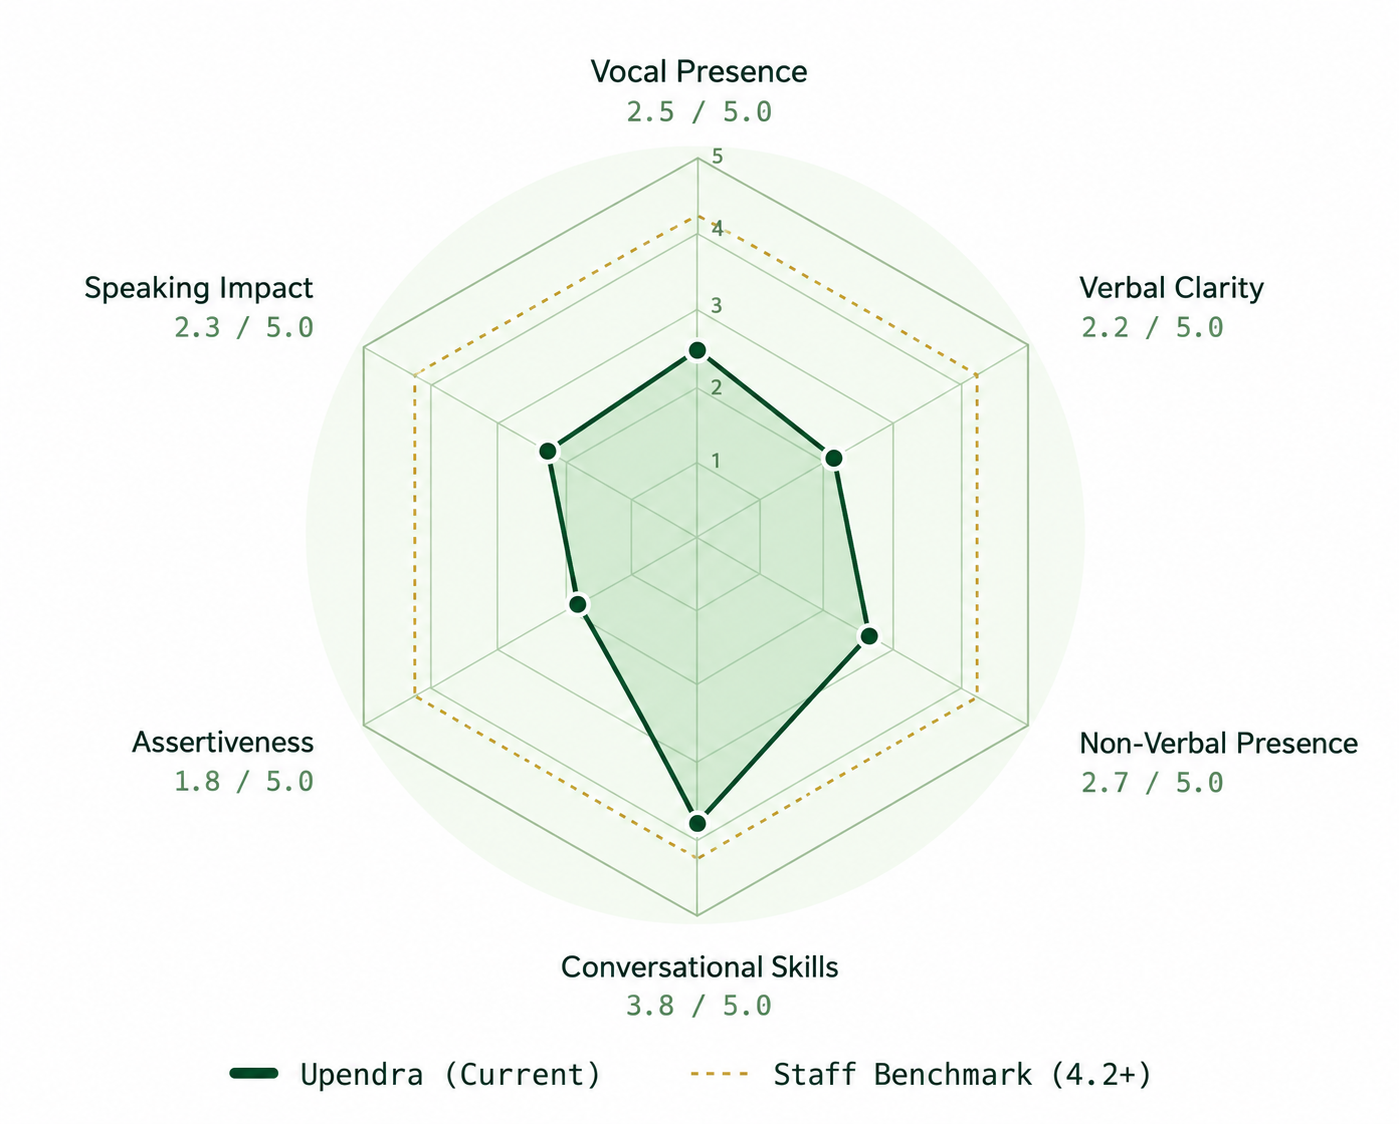
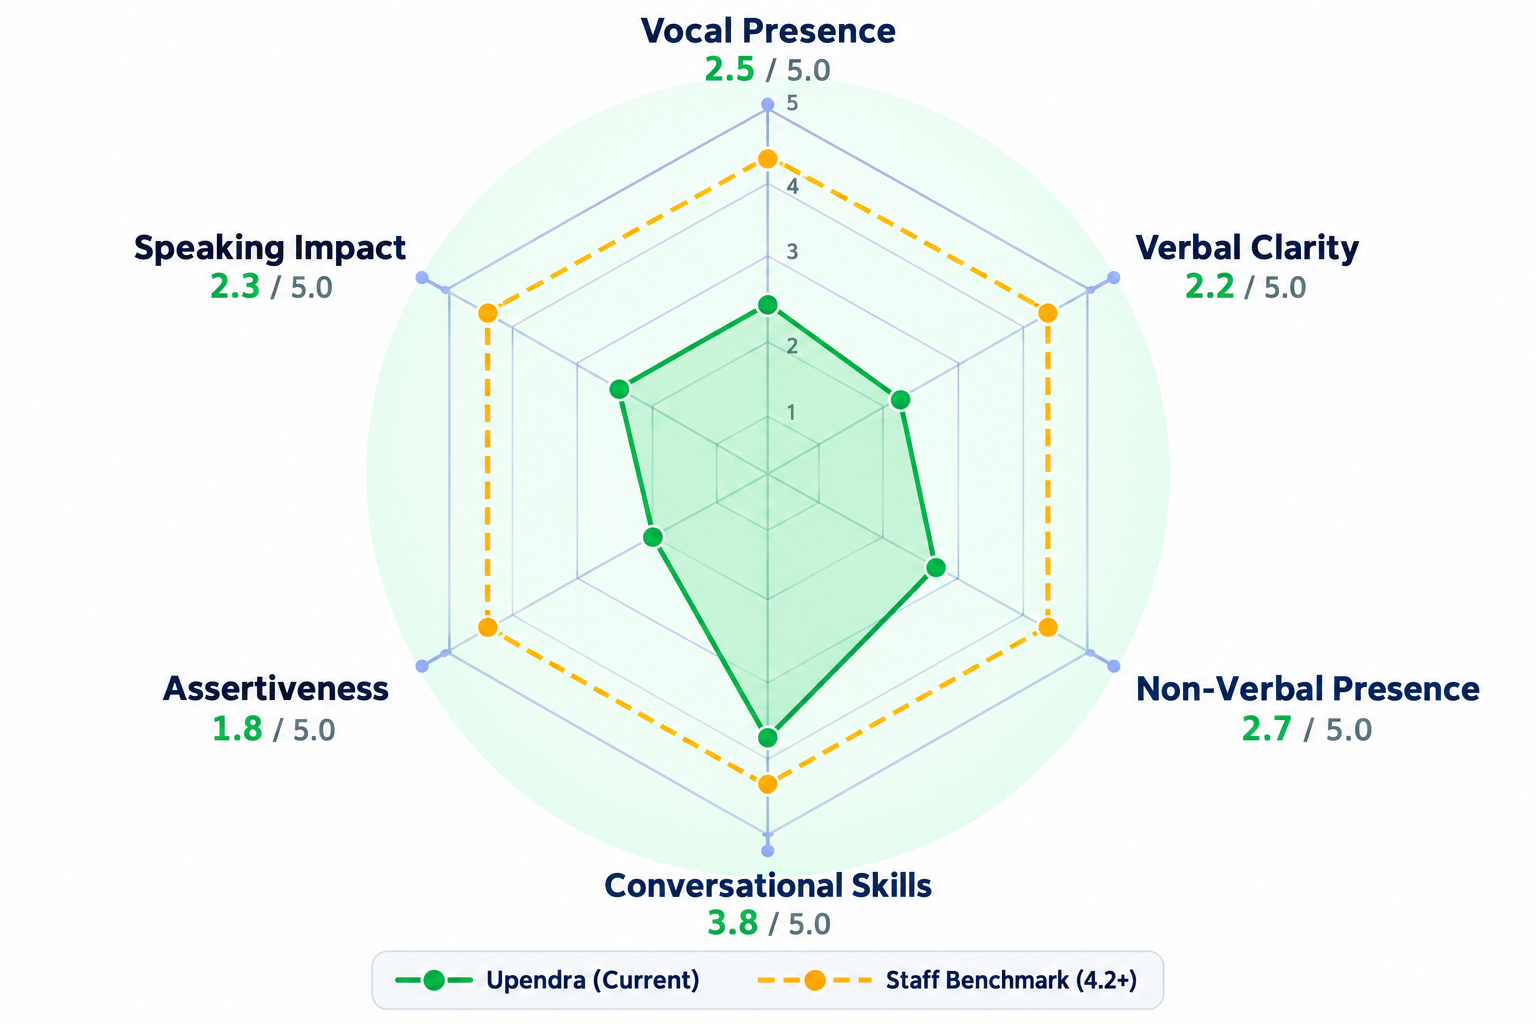
Improve responsive radar chart sizing

diff --git a/style.css b/style.css
@@ -10428,9 +10428,11 @@ html { scroll-padding-top: calc(var(--sr-announcement-height) + clamp(69px, 6.1v
 .package-report-slide-summary { margin:clamp(14px,1.6vw,22px) 0 0; color:#566985; font:400 clamp(12px,1.05vw,16px)/1.55 "DM Sans","Avenir Next",Arial,sans-serif; }
 .package-report-slide-chart { display:block; width:100%; height:100%; min-height:0; object-fit:contain; object-position:center; }
 @media(max-width:900px) {
+  .package-report-slide { aspect-ratio:auto; grid-template-rows:auto auto; gap:12px; overflow:visible; }
   .package-report-slide-header { grid-template-columns:auto minmax(0,1fr); gap:10px 14px; }
   .package-report-slide-author { grid-column:1 / -1; text-align:left; }
-  .package-report-slide-body { grid-template-columns:minmax(0,1fr) minmax(0,1fr); gap:14px; }
+  .package-report-slide-body { grid-template-columns:minmax(0,1fr); gap:14px; }
+  .package-report-slide-chart { width:min(100%,560px); height:auto; max-height:none; justify-self:center; }
   .package-report-slide-metrics > div { grid-template-columns:minmax(0,1fr); gap:2px; }
   .package-report-slide-metrics dd { text-align:left; }
 }
@@ -10449,7 +10451,7 @@ html { scroll-padding-top: calc(var(--sr-announcement-height) + clamp(69px, 6.1v
   .package-report-slide-metrics dt,.package-report-slide-metrics dd { font-size:11px; }
   .package-report-slide-metrics dd { text-align:right; }
   .package-report-slide-summary { margin-top:12px; font-size:12px; }
-  .package-report-slide-chart { width:min(100%,460px); height:auto; max-height:340px; justify-self:center; }
+  .package-report-slide-chart { width:min(100%,560px); height:auto; max-height:none; justify-self:center; }
 }
 .package-gallery-footer { display: flex; align-items: center; justify-content: space-between; gap: 18px; padding: clamp(14px, 1.6vw, 20px) 0 0; border-top: 1px solid #eee8e0; }
 .package-gallery-dots { display: flex; flex-wrap: wrap; gap: 8px; }

diff --git a/package-enroll.js b/package-enroll.js
@@ -374,7 +374,7 @@
           ['Verbal Clarity:', 'Bottom-up rambling (2.2)']
         ],
         summary: 'Upendra’s executive influence is throttled not by lack of engineering depth, but by boundary anxiety and bottom-up over-explanation under questioning.',
-        chart: 'assets/canva/communication/radar-diagnostic-slide-01.png?v=20261027-colored-chart',
+        chart: 'assets/canva/communication/radar-diagnostic-slide-01.png?v=20261028-colorful-chart',
         chartAlt: 'Radar chart comparing Upendra’s communication skills with the staff benchmark.'
       }
     },    {
